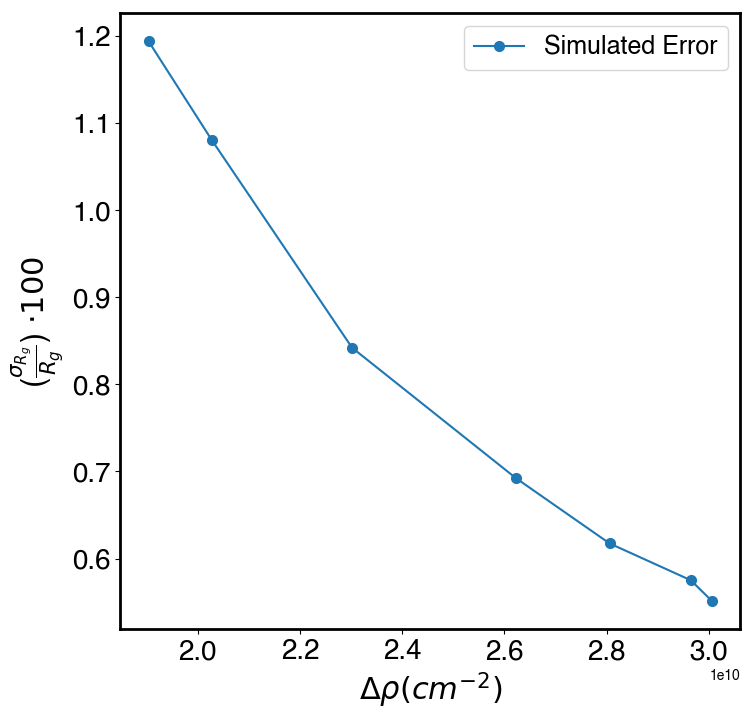
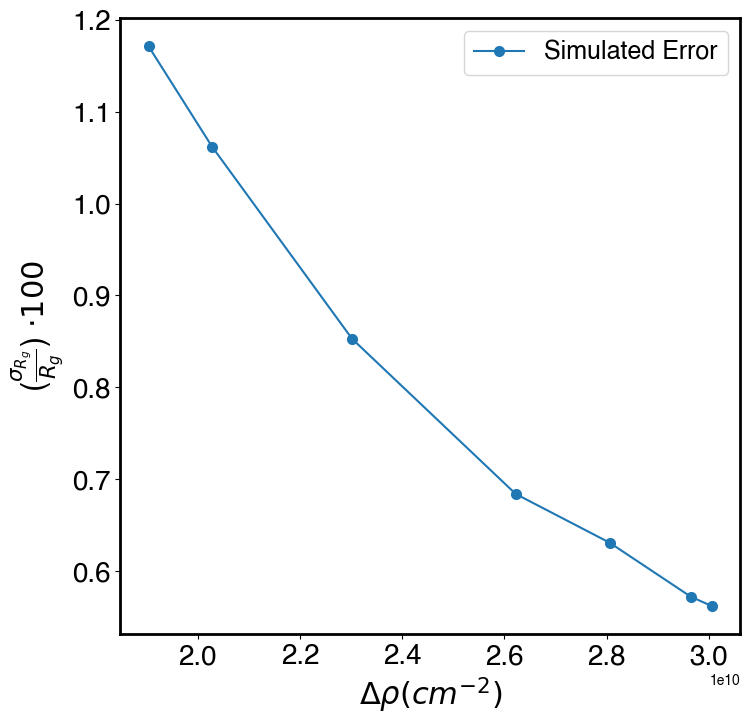
Cleaned up SAXSProf python script, so it isn't calling a bunch of unnecessary parameters

diff --git a/SAXSProf_ErrCalcs.py b/SAXSProf_ErrCalcs.py
@@ -12,6 +12,7 @@ class err_Calcs:
 
         """
         print('err_Calcs class was called.')
+        print "--------------"
         self.saxs1 = saxs1
         # self.c = c
         self.c = saxs1.c
@@ -47,42 +48,39 @@ class err_Calcs:
         self.I_w_noise = I_w_noise
         self.I_no_noise_calc = I_no_noise_calc
 
-    def calc_errRg_conc(self, imin = [], imax = []):
+    def calc_errRg_conc(self, imin = 0, imax = 90):
         saxs1 = self.saxs1
         I_w_noise = self.I_w_noise
         conc = []
         errRg = []
         sig2_Rg_out = []
-        if imin == [] and imax == []:
-            for c in np.arange(0.05,5.0,0.1):
-                saxs1.c = c
-                imin = 0
-                imax = 90
-                # calculate synthetic curve on buf_model profile generated by simulate_buf
-                I_no_noise = saxs1.I_of_q(saxs1.c, saxs1.mw, saxs1.buf_model_q)
-                # calculate noisy profile on mask_q points that fall within both buf's q range and the specified default_q range (mask_q_short)
-                I_w_noise = saxs1.t * saxs1.pixel_size ** 2 * saxs1.with_noise(saxs1.t, saxs1.buf_model_q, I_no_noise)
+        for c in np.arange(0.05,5.0,0.1):
+            saxs1.c = c
+            # calculate synthetic curve on buf_model profile generated by simulate_buf
+            I_no_noise = saxs1.I_of_q(saxs1.c, saxs1.mw, saxs1.buf_model_q)
+            # calculate noisy profile on mask_q points that fall within both buf's q range and the specified default_q range (mask_q_short)
+            I_w_noise = saxs1.t * saxs1.pixel_size ** 2 * saxs1.with_noise(saxs1.t, saxs1.buf_model_q, I_no_noise)
 
-                log_sigma = np.empty(len(saxs1.sigma))
-                for i in range(len(saxs1.sigma) - 1):
-                    log_sigma[i] = np.abs(saxs1.sigma[i] / I_w_noise[i])  # converts sigma of the variable to sigma for log of the variable
-                    # return log_sigma
+            log_sigma = np.empty(len(saxs1.sigma))
+            for i in range(len(saxs1.sigma) - 1):
+                log_sigma[i] = np.abs(saxs1.sigma[i] / I_w_noise[i])  # converts sigma of the variable to sigma for log of the variable
+                # return log_sigma
 
-                (inter, slope, sig2_inter, sig2_slope) = saxs1.lsqfity_with_sigmas(saxs1.buf_model_q[imin:imax] ** 2, np.log(I_w_noise[imin:imax]),
+            (inter, slope, sig2_inter, sig2_slope) = saxs1.lsqfity_with_sigmas(saxs1.buf_model_q[imin:imax] ** 2, np.log(I_w_noise[imin:imax]),
                                                                                log_sigma[imin:imax])
 
-                Rg = np.sqrt(-3 * slope)
-                sig_Rg = np.abs(
-                    Rg * np.sqrt(sig2_slope) / (2 * slope))  # converts the sigma^2 for the slope to the sigma of Rg
+            Rg = np.sqrt(-3 * slope)
+            sig_Rg = np.abs(
+                Rg * np.sqrt(sig2_slope) / (2 * slope))  # converts the sigma^2 for the slope to the sigma of Rg
 
-                # err_Rg = np.sqrt(-3*err_slope)
-                # print c,Rg,sig_Rg/Rg,Rg*saxs1.buf_model_q[imax]
+            # err_Rg = np.sqrt(-3*err_slope)
+            # print c,Rg,sig_Rg/Rg,Rg*saxs1.buf_model_q[imax]
 
-                ## lists to append to each iteration of the loop.
-                sig2_Rg_out.append(sig_Rg)
-                conc.append(saxs1.c)
-                errRg.append(sig_Rg / Rg)
-            return conc, errRg, sig2_Rg_out
+            ## lists to append to each iteration of the loop.
+            sig2_Rg_out.append(sig_Rg)
+            conc.append(saxs1.c)
+            errRg.append(sig_Rg / Rg)
+        return conc, errRg, sig2_Rg_out
         print('Default imin/imax values used: 0 and 90')
 
 

diff --git a/SAXSProf.py b/SAXSProf.py
@@ -26,17 +26,16 @@ warnings.filterwarnings("ignore", category=RuntimeWarning)
 # Initial User Inputs
 #############################################################
 energy = 9.962 # energy (keV)
-P  = 8.4e11     # flux (photons/s)
-t  = 1.0       # exposure time for individual snapshots (s)
-snaps =  1      # number of snapshots averaged
-a  = 150.47    # sample-to-detector distance (cm)
-d  = 0.15       # sample cell path length (cm)
-
+energy = 14.14 # energy (keV)
+P = 8.4e11     # flux (photons/s)
+P = 3.8e12  # flux (photons/s)
+t = 1.0    # exposure time for individual snapshots (s)
+snaps = 1    # number of snapshots averaged
+a = 150.47   # sample-to-detector distance (cm)
+d = 0.15     # sample cell path length (cm)
 window_type = "mica"  # type of window material on sample cell
-
 sensor_thickness = 0.032  # Pilatus sensor thickness
 
-sample_model_1 = "6lyz.pdb.dat"
 
 c = 5.0 # concentration (mg.ml)
 t = 0.4450 # Exposure time (seconds)
@@ -48,35 +47,22 @@ saxs1.sensor_thickness = sensor_thickness
 saxs1.det_eff = saxs1.QE(saxs1.lam, saxs1.sensor_thickness)
 
 #  determines the q-space range based on detector and mask. Default_q starts at q = 0, mask_q starts at q_min
-saxs1.create_Mask(98, 3, 45, 14, wedge=360.0, type="rectangle")
-
+# saxs1.create_Mask(98, 3, 45, 14, wedge=360.0, type="rectangle")
 #############################################################################
 # Here we load in
-#############################################################################
-
+# (self.vac_q, self.vac_I, self.vac_Sig)
+# (self.win_q, self.win_I, self.win_Sig)
+# (self.buf_q, self.buf_I, self.buf_Sig)
+# via the function readStandardProfiles() from SAXS class
 saxs1.readStandardProfiles("M_Nov07_")
-
 #############################################################################
 
 saxs1.d = 0.15     # microfluidic mixing chip
 #saxs1.P = 1.6e11   # 8 um x 13 um CRL beam
-saxs1.P = 3.8e12   # CHESS-U Flux, Ph/s
-
-#saxs1.P = 3.8e11   # Oct 2017 30 um x 50 um CRL beam
-
-# don't forget to set the beam dimensions (cm)
-
-#h_beam = 0.005
-#v_beam = 0.003
-
-#h_beam = 0.0008
-#v_beam = 0.0013
-
-#############################################################################
-#############################################################################
+# saxs1.P = 3.8e12   # CHESS-U Flux, Ph/s
 
 # set_energy() alone does NOT reset q-range or mask (see below).
-saxs1.set_energy(14.14) # this energy is energy for simulated data
+# saxs1.set_energy(14.14) # this energy is energy for simulated data
 
 # re-calculate visible q-range and "pixels per bin" array (NofPixels)
 # RM! Note the mask is energy dependent, because the observable angles are energy dependent.
@@ -86,6 +72,7 @@ saxs1.set_energy(14.14) # this energy is energy for simulated data
 saxs1.create_Mask(98, 3, 45, 14, wedge=360.0, type="rectangle")
 
 # need to re-load model so we can re-interpolate onto new default_q
+sample_model_1 = "6lyz.pdb.dat"
 saxs1.load_I(sample_model_1,interpolate=True,q_array = saxs1.default_q)
 
 
@@ -103,7 +90,7 @@ err_data.plot_S1(conc, [x * 100 for x in rgError],
 
 # Quick calculate model from initial points (slope) of the simulated data
 inv_err = 1/np.array(rgError)
-final_slope = (inv_err[1]-inv_err[0])/(conc[1]-conc[0])
+final_slope = (inv_err[3]-inv_err[2])/(conc[3]-conc[2])
 
 # Technically this final_slope term should be empirically model as it may not be known apriori
 

diff --git a/SAXS8.py b/SAXS8.py
@@ -385,6 +385,7 @@ class SAXS:
         self.name = "%s_%s_%s_%s_%s_%s_%s_%s_%s_%s_%s_%.2g" % (
         self.detector, self.c, self.mw, self.t, self.shape, self.hr, self.qRg, self.salt_type, self.salt_c, self.energy,
         self.a, self.P)
+        print "--------------"
 
     ######################################################### Methods starts here#########################################################
     def set_energy(self, energy):
@@ -1596,6 +1597,7 @@ class SAXS:
         (self.vac_q, self.vac_I, self.vac_Sig) = self.readProf(rootname + "vac_I_interp.dat")
         (self.win_q, self.win_I, self.win_Sig) = self.readProf(rootname + "win_I_interp.dat")
         (self.buf_q, self.buf_I, self.buf_Sig) = self.readProf(rootname + "buf_I_interp.dat")
+        print "--------------"
 
     def simulate_buf(self, subtracted=False, no_vac=False, q_array=None, interpolate=True):
         """simulate a typical buffer scattering profile including windows, water (+salt/additives?), and beamline parasitic scatter  """
@@ -1693,7 +1695,7 @@ class SAXS:
 
                 q_trimmed = q_array[start_point:stop_point + 1]
 
-                print "\nsimulate_buf(): Buffer data loaded and interpolated."
+                print "\nsimulate_buf() called: Buffer data loaded and interpolated."
                 print "load_win: self.win_q is q_array[", start_point, ":", stop_point + 1, "]"
 
                 self.buf_model_I = self.interpol(q_trimmed, self.buf_model_q, self.buf_model_I)
@@ -1705,7 +1707,7 @@ class SAXS:
                 self.buf_model_q = q_trimmed
 
                 print "q_array start:", q_array[0], q_array[start_point]
-                print "buf_model_q first last length ", self.buf_model_q[0], self.buf_model_q[-1], len(self.buf_model_q)
+                print "buf_model_q: first, last, length ", self.buf_model_q[0], self.buf_model_q[-1], len(self.buf_model_q)
                 print "--------------"
         else:
             print "\nload_win(): window profile loaded but not interpolated."

diff --git a/SAXSProf_Extras.py b/SAXSProf_Extras.py
@@ -12,7 +12,14 @@
 ## This version has been modified for the atlastin models
 
 # These files below are only used when generating the "standard profiles."
-
+# energy = 9.962 # energy (keV)
+# P  = 8.4e11     # flux (photons/s)
+# t  = 1.0       # exposure time for individual snapshots (s)
+# snaps =  1      # number of snapshots averaged
+# a  = 150.47    # sample-to-detector distance (cm)
+# d  = 0.15       # sample cell path length (cm)
+# window_type = "mica"  # type of window material on sample cell
+# sensor_thickness = 0.032  # Pilatus sensor thickness
 # buffer with empty cell subtracted
 # buffer_model = "/S_A_nov07_028_lysbufnorm_flat.dat"
 # buffer_exposure = t  # exposure used for buffer model
@@ -25,7 +32,7 @@
 # win_model = "/S_A_nov07_026_lysbufnorm.dat"
 # win_exposure = t
 # win_flux = P
-
+# sample_model_1 = "6lyz.pdb.dat"
 #############################################################################
 #############################################################################
 # buffer, vacuum, window, and model profiles read in and interpolated onto default_q
@@ -35,3 +42,19 @@
 # saxs1.load_vac(vac_model, t=vac_exposure, P=vac_flux, interpolate=True, q_array = saxs1.default_q)
 # saxs1.load_win(win_model, t=win_exposure, P=win_flux, interpolate=True, q_array = saxs1.default_q)
 # saxs1.load_I(sample_model_1,interpolate=True,q_array = saxs1.default_q)
+
+#############################################################################
+#############################################################################
+
+#saxs1.P = 3.8e11   # Oct 2017 30 um x 50 um CRL beam
+
+# don't forget to set the beam dimensions (cm)
+
+#h_beam = 0.005
+#v_beam = 0.003
+
+#h_beam = 0.0008
+#v_beam = 0.0013
+
+#############################################################################
+#############################################################################
